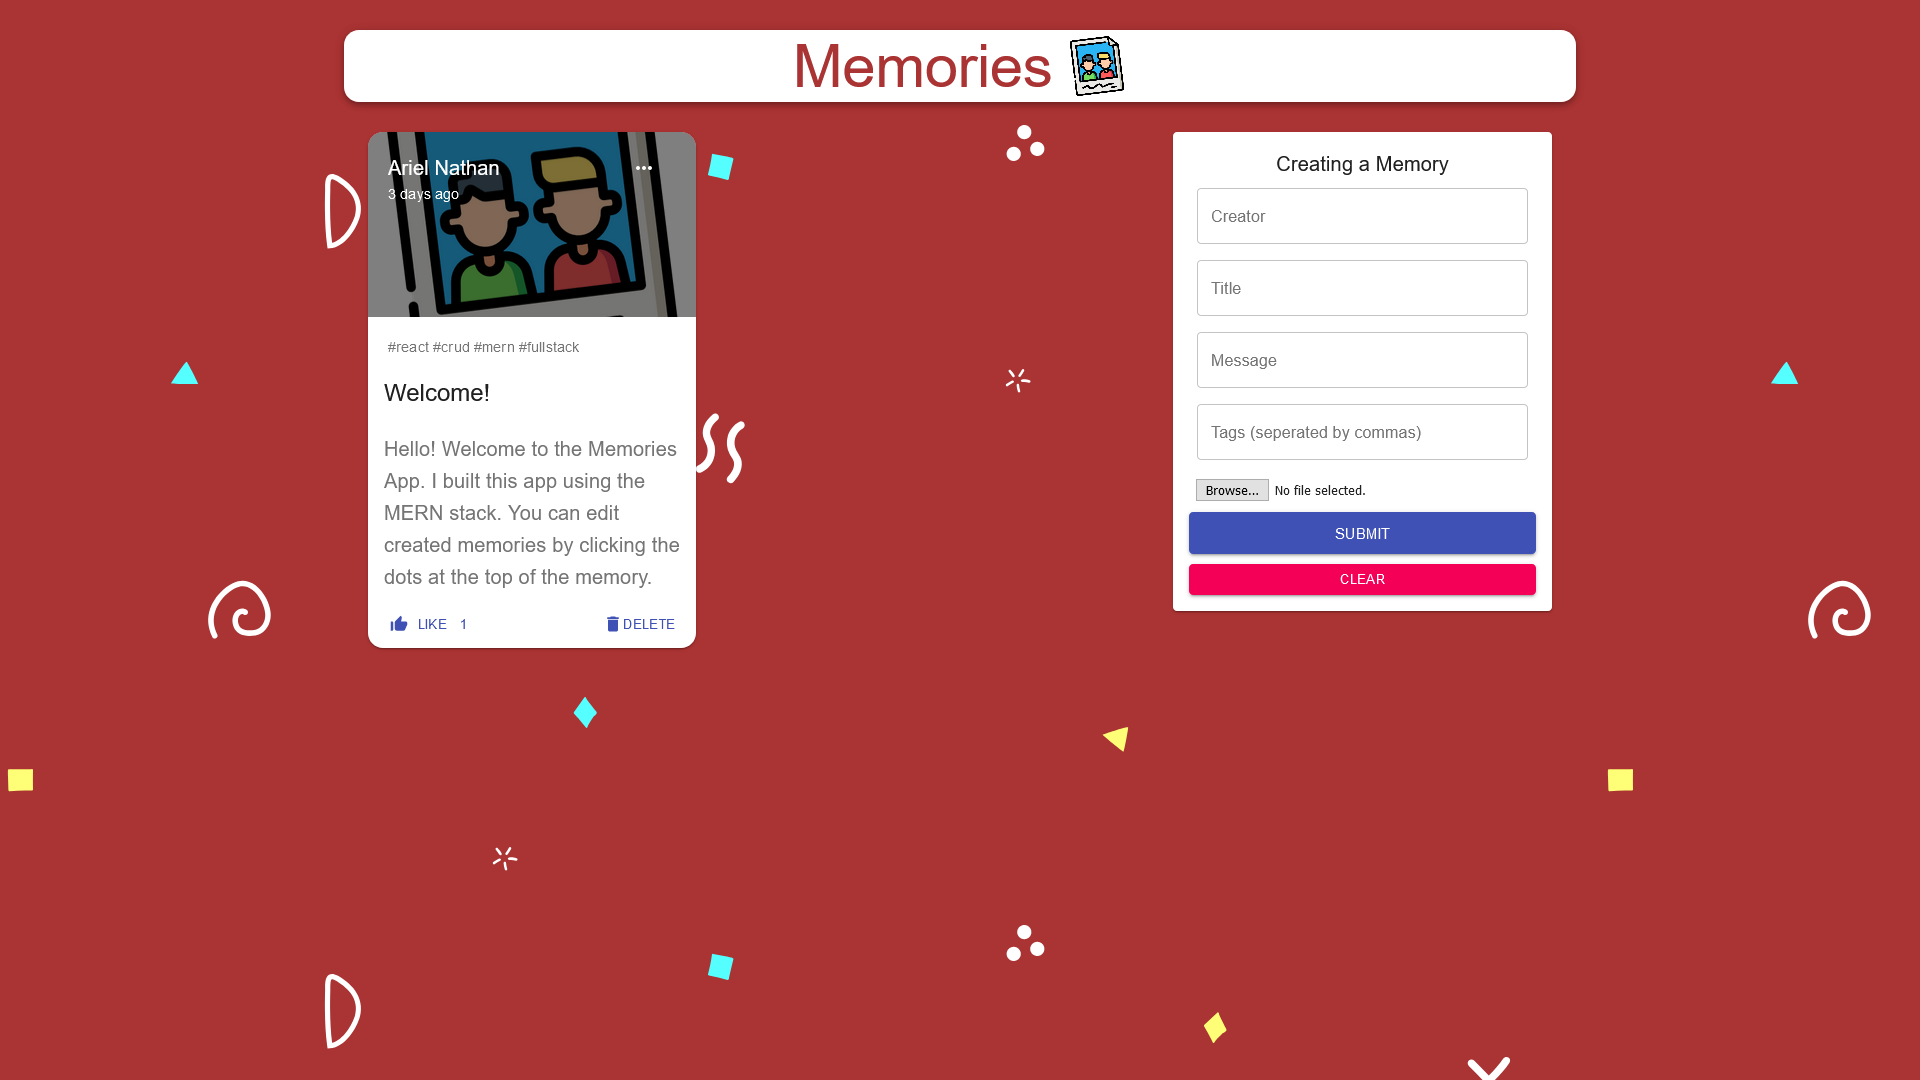
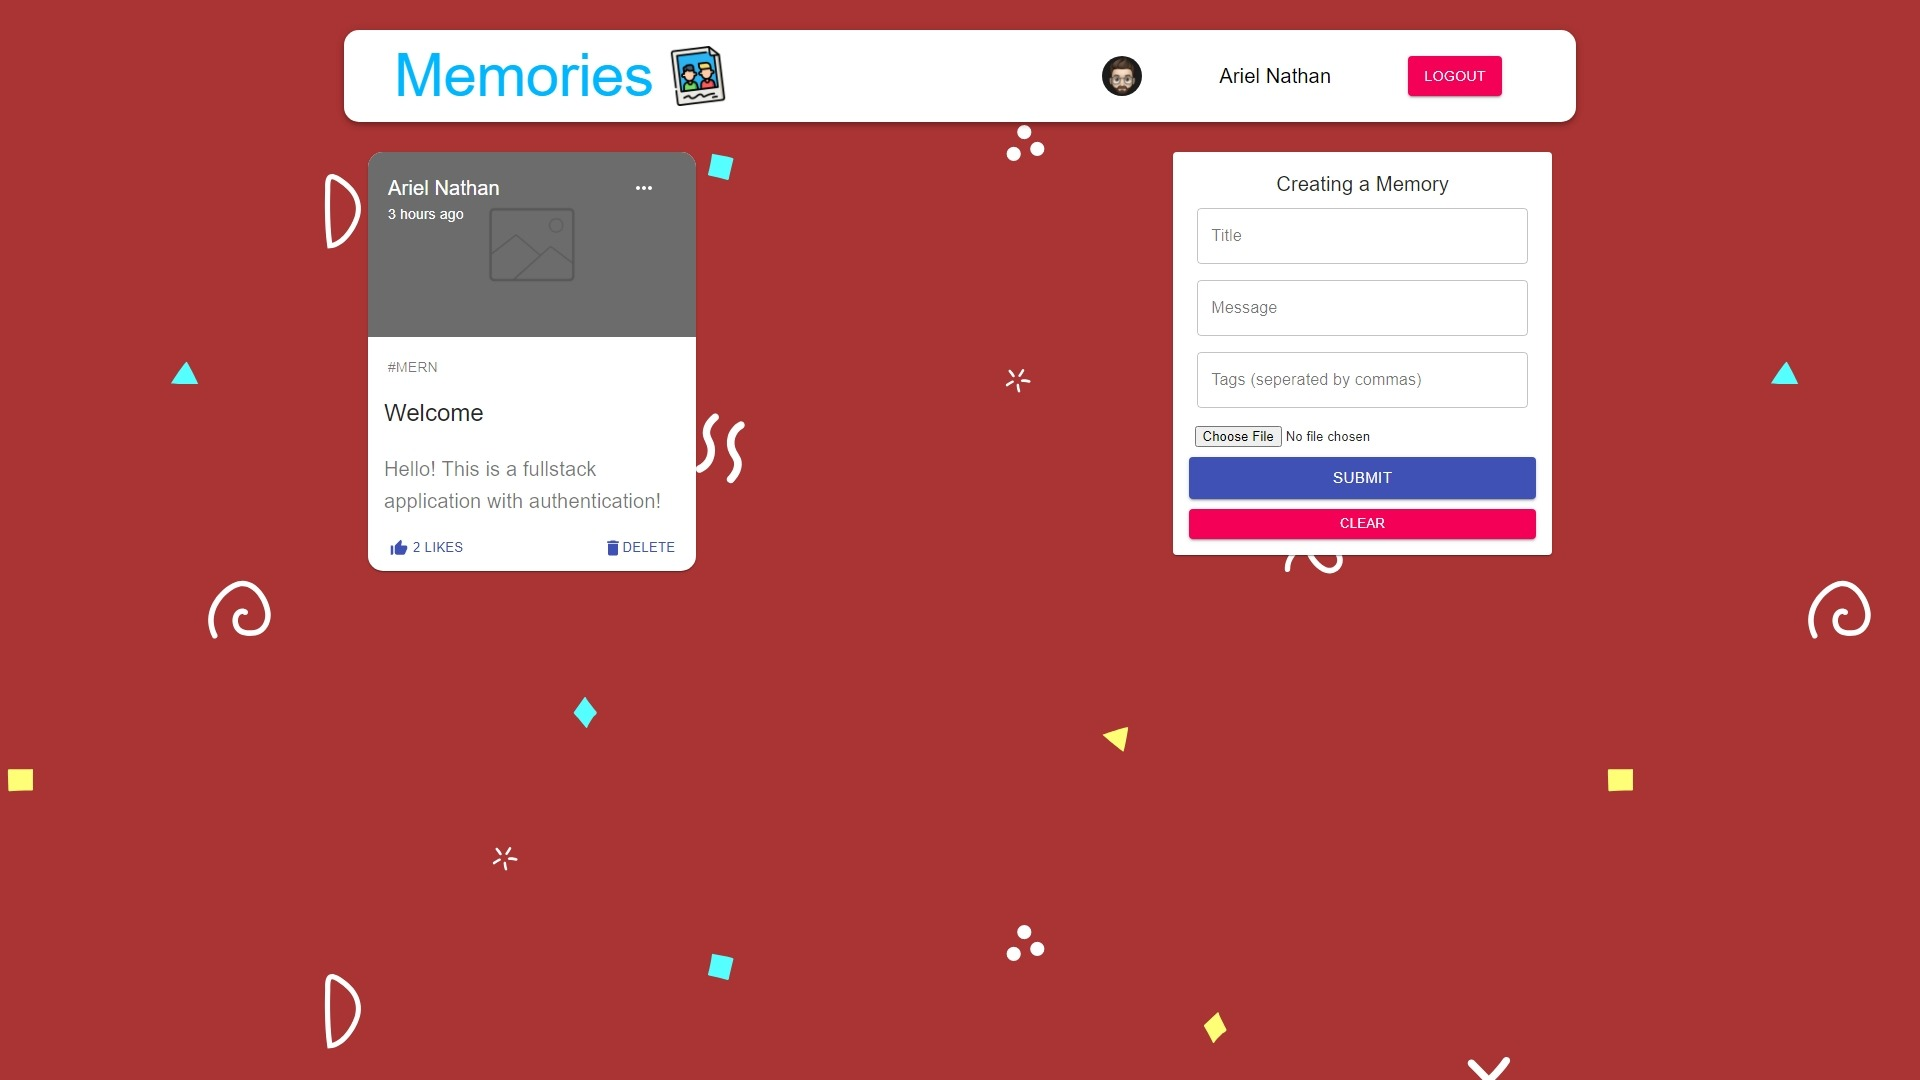
Readme update

diff --git a/README.md b/README.md
@@ -76,7 +76,7 @@
   <img src="images/memories-app.png" alt="app">
 </p>
 
-Memories is a social media app where anyone can create, edit, delete, and like posts. I plan on implementing an authentication system so that each user has control over their own posts.
+Memories is a social media app where anyone can make a free account, sign in, and then create, edit, delete, and like posts.
 
 ### Built With
 
@@ -87,6 +87,8 @@ Memories is a social media app where anyone can create, edit, delete, and like p
 - [Redux](https://react-redux.js.org/)
 - [Axios](https://github.com/axios/axios)
 - [Material-UI](https://material-ui.com/)
+- [JWT](https://jwt.io/)
+- [Google Oauth](https://developers.google.com/identity/protocols/oauth2)
 
 <!-- GETTING STARTED -->
 
